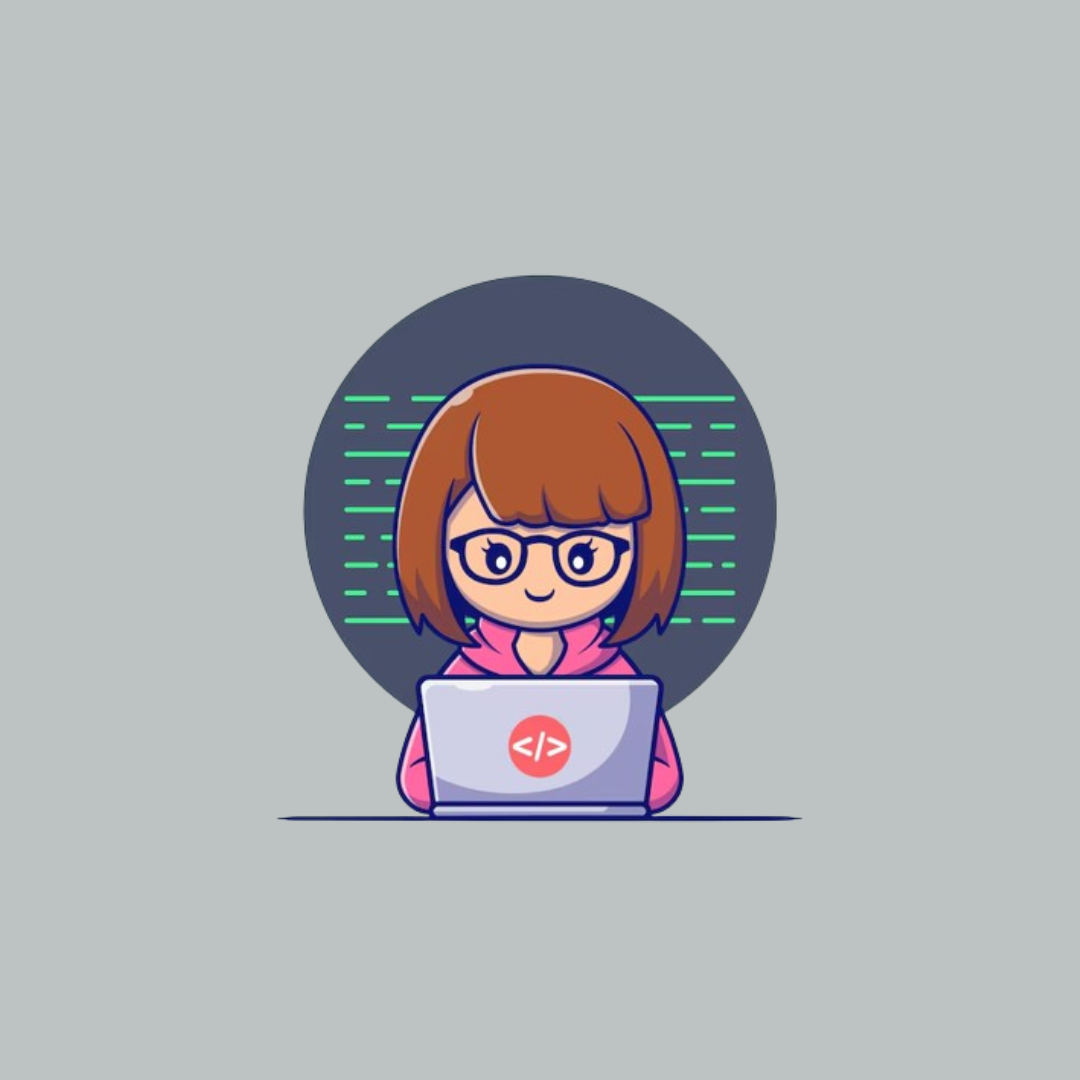
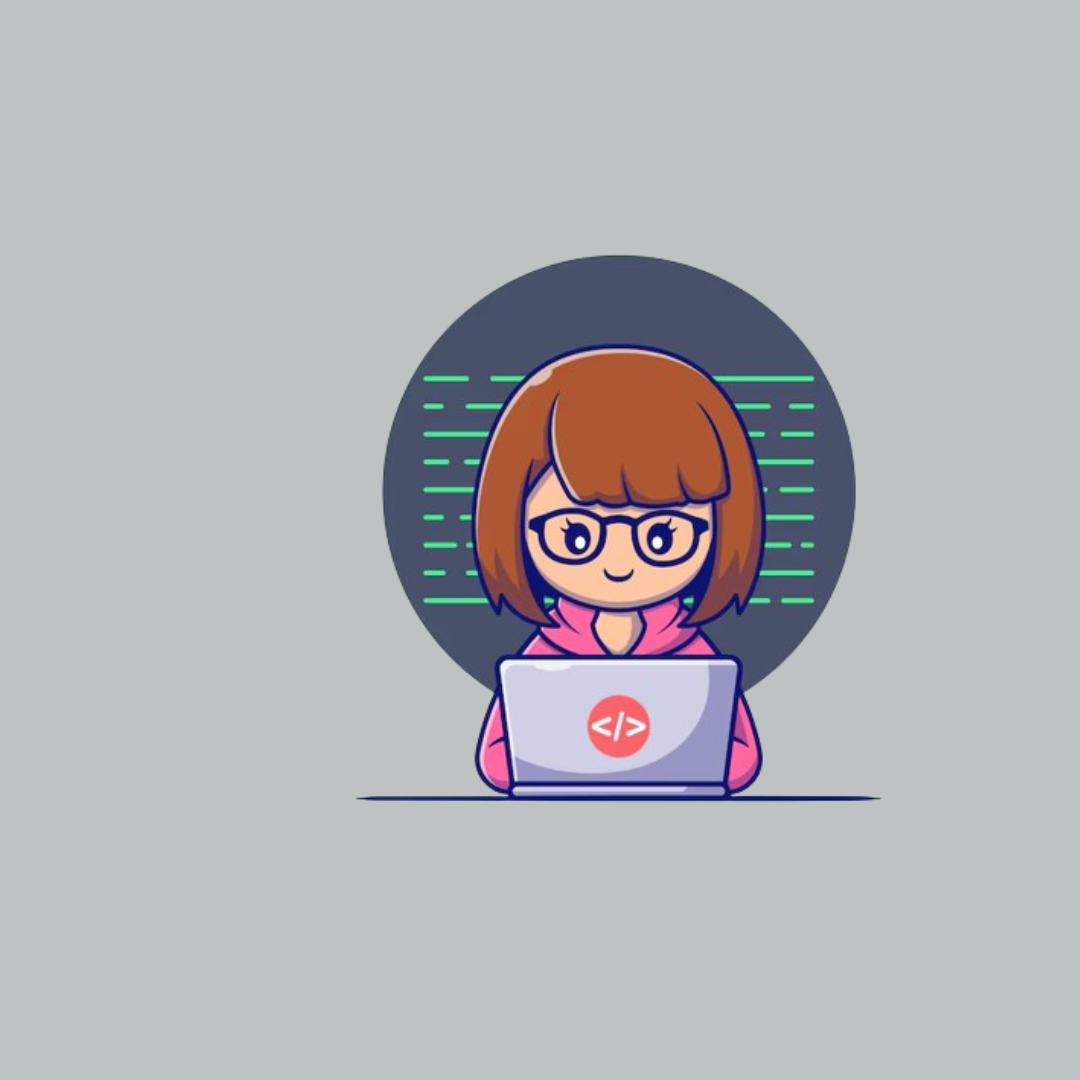
add some changes

Changed region(s): [[0.275, 0.2139, 0.7944, 0.7639]]

diff --git a/index.html b/index.html
@@ -52,7 +52,7 @@
                 <div class="overlay"></div>
                 <div class="container-fluid px-md-0">
                     <div class="row d-md-flex no-gutters slider-text align-items-end justify-content-end" data-scrollax-parent="true">
-                        <div class="one-third order-md-last img" style="background-image:url(images/bg_1.png);">
+                        <div class="one-third order-md-last img" style="background-image:url(images/about-1.png);">
                             <div class="overlay"></div>
                             <div class="overlay-1"></div>
                         </div>
@@ -149,7 +149,7 @@
                 <div class="col-md-6 col-lg-5 d-flex">
                     <div class="img-about img d-flex align-items-stretch">
                         <div class="overlay"></div>
-                        <div class="img d-flex align-self-stretch align-items-center" style="background-image:url(images/about-1.png);">
+                        <div class="img d-flex align-self-stretch align-items-center" style="background-image:url(images/bg_1.png);">
                         </div>
                     </div>
                 </div>
